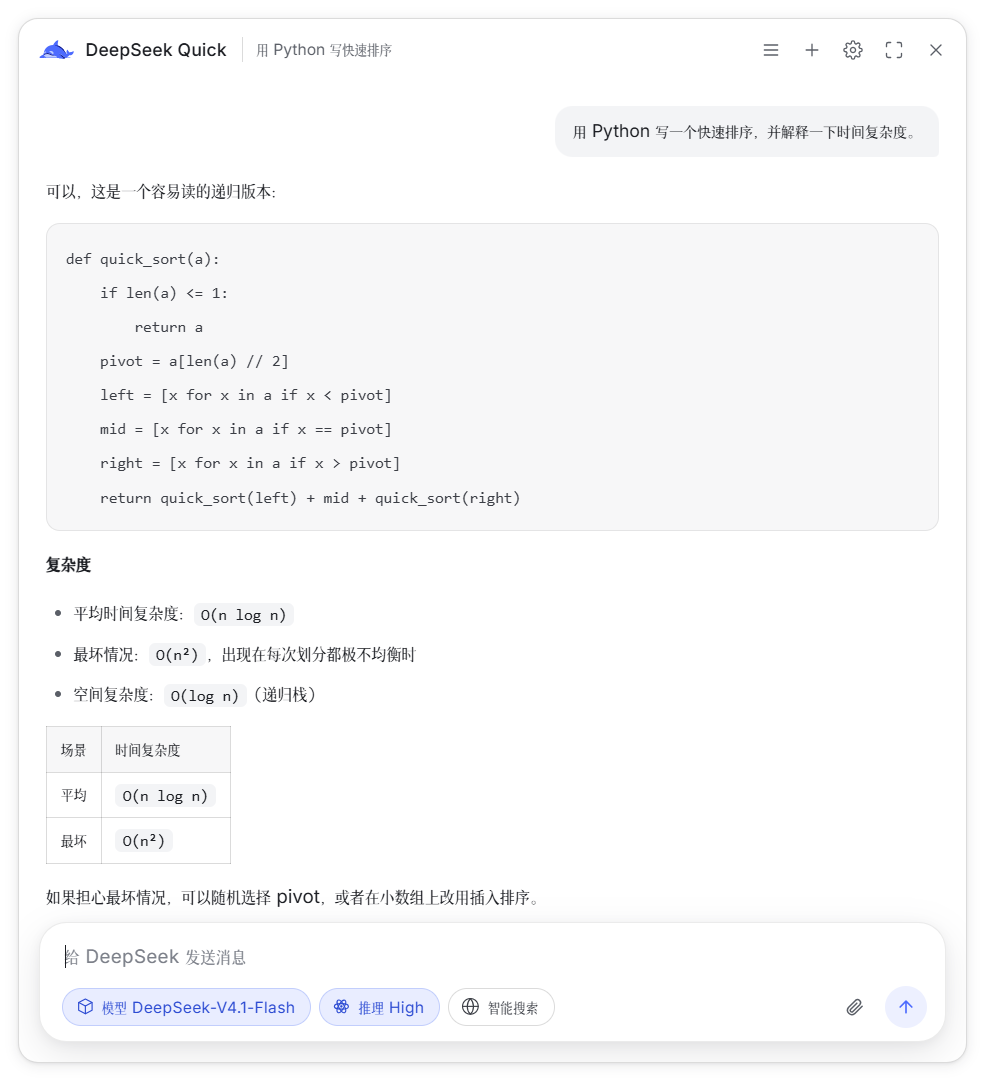
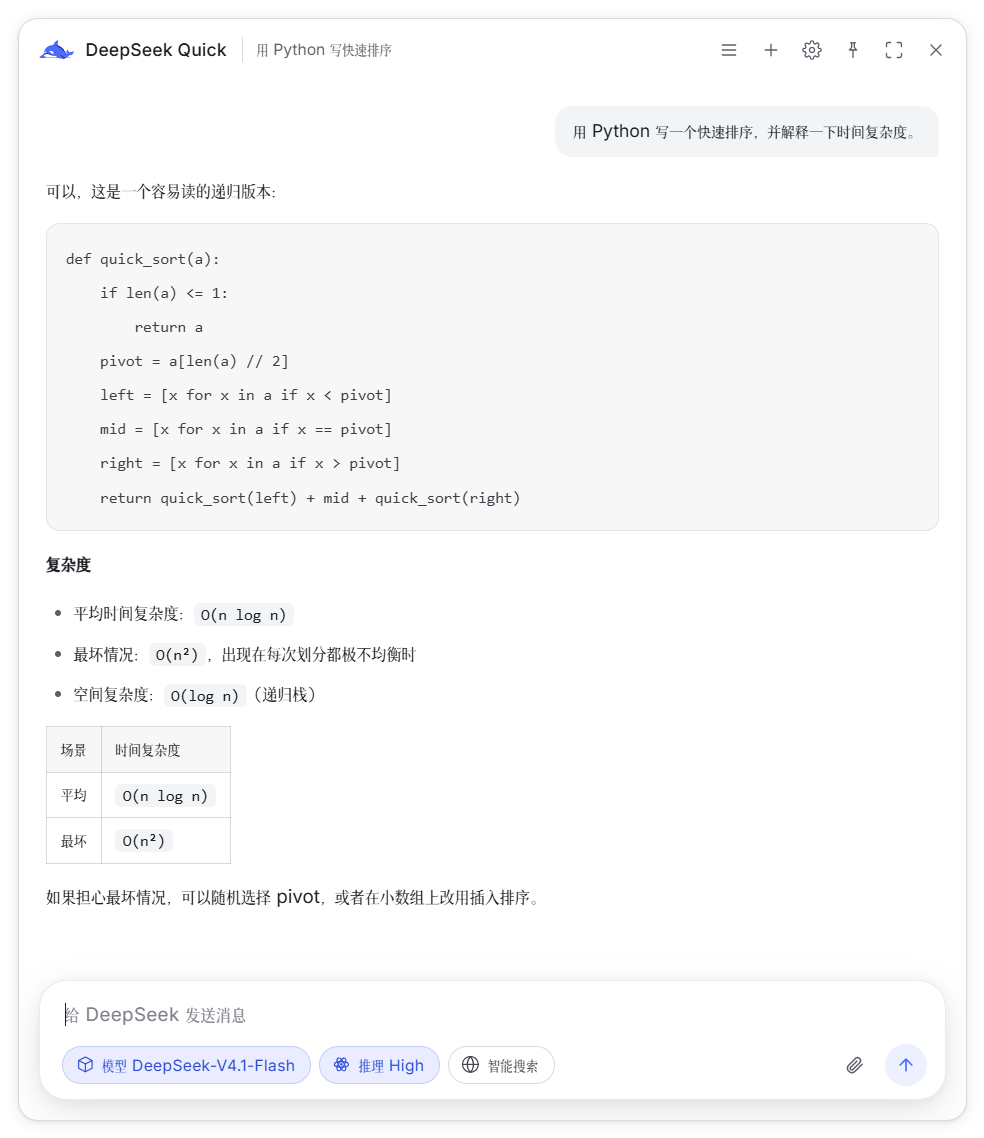
docs: 更新 README 截图并删除多余的功能说明

diff --git a/README.md b/README.md
@@ -2,9 +2,6 @@
 
 **按下 `Alt + Space`，即可在 Windows 桌面快速唤出 DeepSeek。**
 
-标题栏的图钉可以「窗口置顶」：置顶后点其他窗口不会自动隐藏，方便边看资料边问。
-设置里的「开机自启」会让程序在登录 Windows 后自动在托盘待命，不弹窗口。
-
 ![浅色模式主界面](docs/home.png)
 
 ## 快速开始
